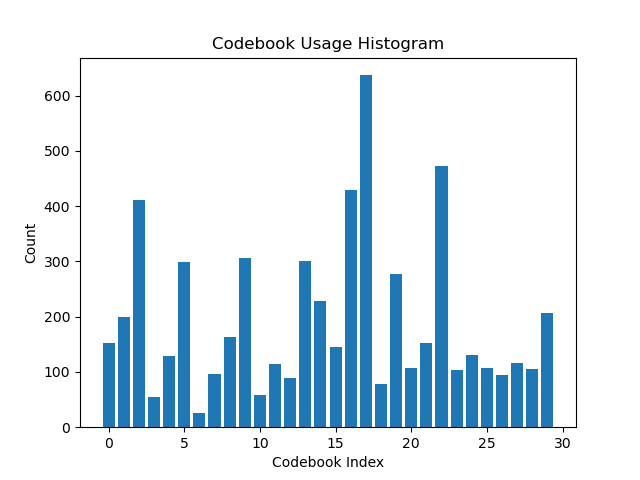
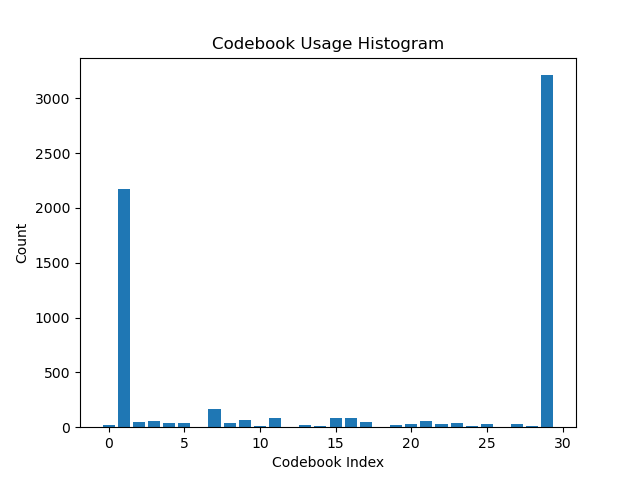
updated

diff --git a/src/better_train.py b/src/better_train.py
@@ -198,7 +198,31 @@ def configure_optimizers(models: Dict, config: Dict) -> Dict:
     }
     return optimizers
 
+def load_checkpoint(checkpoint_path, models, optimizers, device):
+    """Load model and optimizer states from checkpoint."""
+    checkpoint = torch.load(checkpoint_path, map_location=device)
+    
+    # Load model states
+    for name, model in models.items():
+        if name in checkpoint['models']:
+            model.load_state_dict(checkpoint['models'][name])
+        else:
+            logging.warning(f"No weights found for {name} in checkpoint")
 
+    # Load optimizer states
+    for name, optimizer in optimizers.items():
+        if name in checkpoint['optimizers']:
+            optimizer.load_state_dict(checkpoint['optimizers'][name])
+        else:
+            logging.warning(f"No state found for {name} optimizer")
+
+    # Return additional info
+    return {
+        'step': checkpoint['step'],
+        'num_steps': checkpoint['num_steps'],
+        'config': checkpoint['config']
+    }
+    
 def main():
     config = load_config("config/try1.yaml")
     configure_logging(config['logging']['dir'])
@@ -217,13 +241,27 @@ def main():
     device = torch.device("cuda" if torch.cuda.is_available() else "cpu")
     for model in models.values():
         model.to(device)
-    
+        
     # Initialize optimizers and loss
     optimizers = configure_optimizers(models, config)
     loss_module = Loss(config)
     
     # Create checkpoint directory
     os.makedirs(config['checkpoint']['dir'], exist_ok=True)
+    
+    
+    # Resume training if checkpoint specified
+    start_step = 1
+    if config['train']['resume_checkpoint']:
+        checkpoint_info = load_checkpoint(
+            config['train']['checkpoint_path'],
+            models,
+            optimizers,
+            device
+        )
+        start_step = checkpoint_info['step'] + 1
+        logging.info(f"Resuming training from step {start_step}")
+
     
     
     # Main training loop
@@ -235,7 +273,8 @@ def main():
             text_loader=text_loader,
             loss_module=loss_module,
             config=config,
-            device=device
+            device=device,
+            start_step=start_step  # Add this
         )
     except KeyboardInterrupt:
         logging.info("Training interrupted by user")
@@ -245,7 +284,7 @@ def main():
 
 
 def train(models: Dict, optimizers: Dict, speech_loader: DataLoader,
-         text_loader: DataLoader, loss_module: Loss, config: Dict, device: torch.device):
+         text_loader: DataLoader, loss_module: Loss, config: Dict, device: torch.device, start_step: int):
     
     num_steps = config['train']['num_steps']
     freeze_steps = config['train']['freeze_steps']
@@ -263,10 +302,8 @@ def train(models: Dict, optimizers: Dict, speech_loader: DataLoader,
     
     loss_module.gan_loss.training = True
 
-    for step in range(1, num_steps + 1):
+    for step in range(start_step, num_steps + 1):
         output = {}
-        logging.info(f"Step {step}")
-        
         
         # ===== Data Preparation =====
         try:
@@ -330,38 +367,15 @@ def train(models: Dict, optimizers: Dict, speech_loader: DataLoader,
         
         # Loss calculation
         loss_components = loss_module.step_gen(output)
+        total_lossg = sum(loss_components.values())
         if step % config['logging']['step'] == 0:    
-            logging.info(f"GEN-LOSS---step/total: {step}/{num_steps} rec_loss: {loss_components['rec_loss']}, commit_loss: {loss_components['commit_loss']}, smooth_loss: {loss_components['smooth_loss']}, gen_loss: {loss_components['gen_loss']}, diversity_loss: {loss_components['diversity_loss']}")
-        total_loss = sum(loss_components.values())
-
-        # Backward pass
-        if step >= freeze_steps:
-            optimizers['enc'].zero_grad()    
-        optimizers['down'].zero_grad()
-        optimizers['dec'].zero_grad()
+            logging.info(f"GEN-LOSS---step/total: {step}/{num_steps} rec_loss: {loss_components['rec_loss']}, commit_loss: {loss_components['commit_loss']}, smooth_loss: {loss_components['smooth_loss']}, gen_loss: {loss_components['gen_loss']}, diversity_loss: {loss_components['diversity_loss']}, total_loss: {total_lossg}")
         
-        # Backpropagation   
-        total_loss.backward()
 
-        # Gradient clipping
-        max_grad_norm = config['train']['grad_clip']
-        if step >= freeze_steps:
-            torch.nn.utils.clip_grad_norm_(models['encoder'].parameters(), max_grad_norm)
-        torch.nn.utils.clip_grad_norm_(models['downsample'].parameters(), max_grad_norm)
-        torch.nn.utils.clip_grad_norm_(
-            list(models['upsample'].parameters()) + list(models['decoder'].parameters()), 
-            max_grad_norm
-        )
-
-        if step >= freeze_steps:
-            optimizers['enc'].step()
-        optimizers['down'].step()
-        optimizers['dec'].step()
-        
         
         # ===== Discriminator Forward Pass =====
         # Get text batch (every 2 steps) with auto-reset
-        if step % 2 == 0:
+        if step % config['train']['discriminator_freq'] == 0:
             
             z_q_disc = z_q_disc.clone().detach()
             disc_fake = models['discriminator'](z_q_disc, non_repeated_mask.unsqueeze(-1).clone().detach())
@@ -388,15 +402,44 @@ def train(models: Dict, optimizers: Dict, speech_loader: DataLoader,
             
             
             loss_components = loss_module.step_disc(output)
-            total_loss = loss_components['total_loss']
+            total_lossd = loss_components['total_loss']
             if step % config['logging']['step'] == 0:  
                 logging.info(f"DISC-LOSS---step/total: {step}/{num_steps} real_loss: {loss_components['loss_real']}, fake_loss: {loss_components['loss_fake']}, gp_loss: {loss_components['grad_pen']}, total_loss: {loss_components['total_loss']}")
             
-            optimizers['disc'].zero_grad()
-            total_loss.backward()
-            torch.nn.utils.clip_grad_norm_(models['discriminator'].parameters(), max_grad_norm)
-            optimizers['disc'].step()
-            
+        
+        # Backpropagation   
+        if step % config['train']['discriminator_freq'] == 0:
+            total_lossg += total_lossd
+        total_lossg.backward()
+
+        if step % config['train']['gradient_accumulation_steps'] == 0:
+            # Gradient clipping
+            max_grad_norm = config['train']['grad_clip']
+            if step >= freeze_steps:
+                torch.nn.utils.clip_grad_norm_(models['encoder'].parameters(), max_grad_norm)
+            torch.nn.utils.clip_grad_norm_(models['downsample'].parameters(), max_grad_norm)
+            torch.nn.utils.clip_grad_norm_(
+                list(models['upsample'].parameters()) + list(models['decoder'].parameters()), 
+                max_grad_norm
+            )
+            if step % config['train']['discriminator_freq'] == 0:
+                torch.nn.utils.clip_grad_norm_(models['discriminator'].parameters(), max_grad_norm)
+
+            if step >= freeze_steps:
+                optimizers['enc'].step()
+            optimizers['down'].step()
+            optimizers['dec'].step()
+            if step % config['train']['discriminator_freq'] == 0:
+                optimizers['disc'].step()
+                
+            # Backward pass
+            if step >= freeze_steps:
+                optimizers['enc'].zero_grad()    
+            optimizers['down'].zero_grad()
+            optimizers['dec'].zero_grad()
+            if step % config['train']['discriminator_freq'] == 0:
+                optimizers['disc'].zero_grad()
+        
             
         # Checkpoint
         if step % config['checkpoint']['step'] == 0:
@@ -409,8 +452,6 @@ def train(models: Dict, optimizers: Dict, speech_loader: DataLoader,
                 'config': config
             }, checkpoint_path)
             logging.info(f"Saved checkpoint to {checkpoint_path}")
-
-        step += 1
         
 if __name__ == "__main__":
     main()

diff --git a/src/loss.py b/src/loss.py
@@ -2,6 +2,7 @@ import torch
 import torch.nn as nn
 import torch.nn.functional as F
 import torch.autograd as autograd
+from torch.autograd import Variable
 import numpy as np
 import logging
 
@@ -69,7 +70,8 @@ class GANLoss(nn.Module):
 
         alpha = torch.rand(real_data.size(0), 1, 1, device=real_data.device)
         alpha = alpha.expand(real_data.size())
-        interpolates = alpha * real_data + (1 - alpha) * fake_data
+        interpolates = (alpha * real_data + (1 - alpha) * fake_data).detach()
+        interpolates.requires_grad_(True)
   
         disc_interpolates = self.discriminator(interpolates, torch.zeros_like(interpolates).bool()[:,:,:1])
 
@@ -98,9 +100,7 @@ class Loss:
     
     def step_disc(self, output, step=0, total_steps=None):
         # fake, real, fake_x, real_x, fake_smooth=0.0, real_smooth=0.0):
-        
-        print(output['disc_fake'].shape, output['disc_real'].shape, output['disc_fake_x'].shape, output['disc_real_x'].shape)
-        
+    
         loss = self.gan_loss(output["disc_fake"], output["disc_real"], output["disc_fake_x"], output["disc_real_x"])        
         return loss
         
@@ -126,9 +126,8 @@ class Loss:
         smooth_loss *= self.config["smooth_loss_weight"]
         
         # generator loss
-        gen_loss = 0.0
-        # gen_loss = F.binary_cross_entropy_with_logits(output["disc_fake"], torch.zeros_like(output["dis_fake"]))
-        # gen_loss *= self.config["gen_loss_weight"]
+        gen_loss = F.binary_cross_entropy_with_logits(output["disc_fake"], torch.zeros_like(output["disc_fake"]))
+        gen_loss *= self.config["gen_loss_weight"]
         
         loss_components = {
             "rec_loss": rec_loss,

diff --git a/src/models/tokenizer.py b/src/models/tokenizer.py
@@ -143,14 +143,15 @@ class Tokenizer(nn.Module):
             Tensor: Histogram of shape (num_codebooks,), representing the count of each codebook entry.
         """
         # Flatten indices across batch and time
-        flattened_indices = encoding_indices.view(-1)  # Shape: (B*T,)
+        flattened_indices = encoding_indices.detach().view(-1)  # Shape: (B*T,)
 
         # Compute histogram
         histogram = torch.bincount(flattened_indices, minlength=self.num_codebooks).float()
         # Accumulate usage
-        self.codebook_usage += histogram.cpu()
+        # self.codebook_usage += histogram.cpu()
         
         plt.clf() 
+        # plt.bar(range(self.num_codebooks), torch.log(histogram).cpu().numpy())
         plt.bar(range(self.num_codebooks), histogram.cpu().numpy())
         plt.xlabel("Codebook Index")
         plt.ylabel("Count")

diff --git a/src/models/encoder.py b/src/models/encoder.py
@@ -37,14 +37,6 @@ class Encoder(torch.nn.Module):
         
         self.model = model[0]
         self.cfg = cfg
-        
-    def freeze(self, layers=[10, 11]):
-        for param in self.model.parameters():
-            param.requires_grad = False
-        # Unfreeze only transformer layers 10 and 11
-        for layer_idx in layers:
-            for param in self.model.encoder.layers[layer_idx].parameters():
-                param.requires_grad = True
       
     def forward(self, source, padding_mask): 
         w2v_args = {
